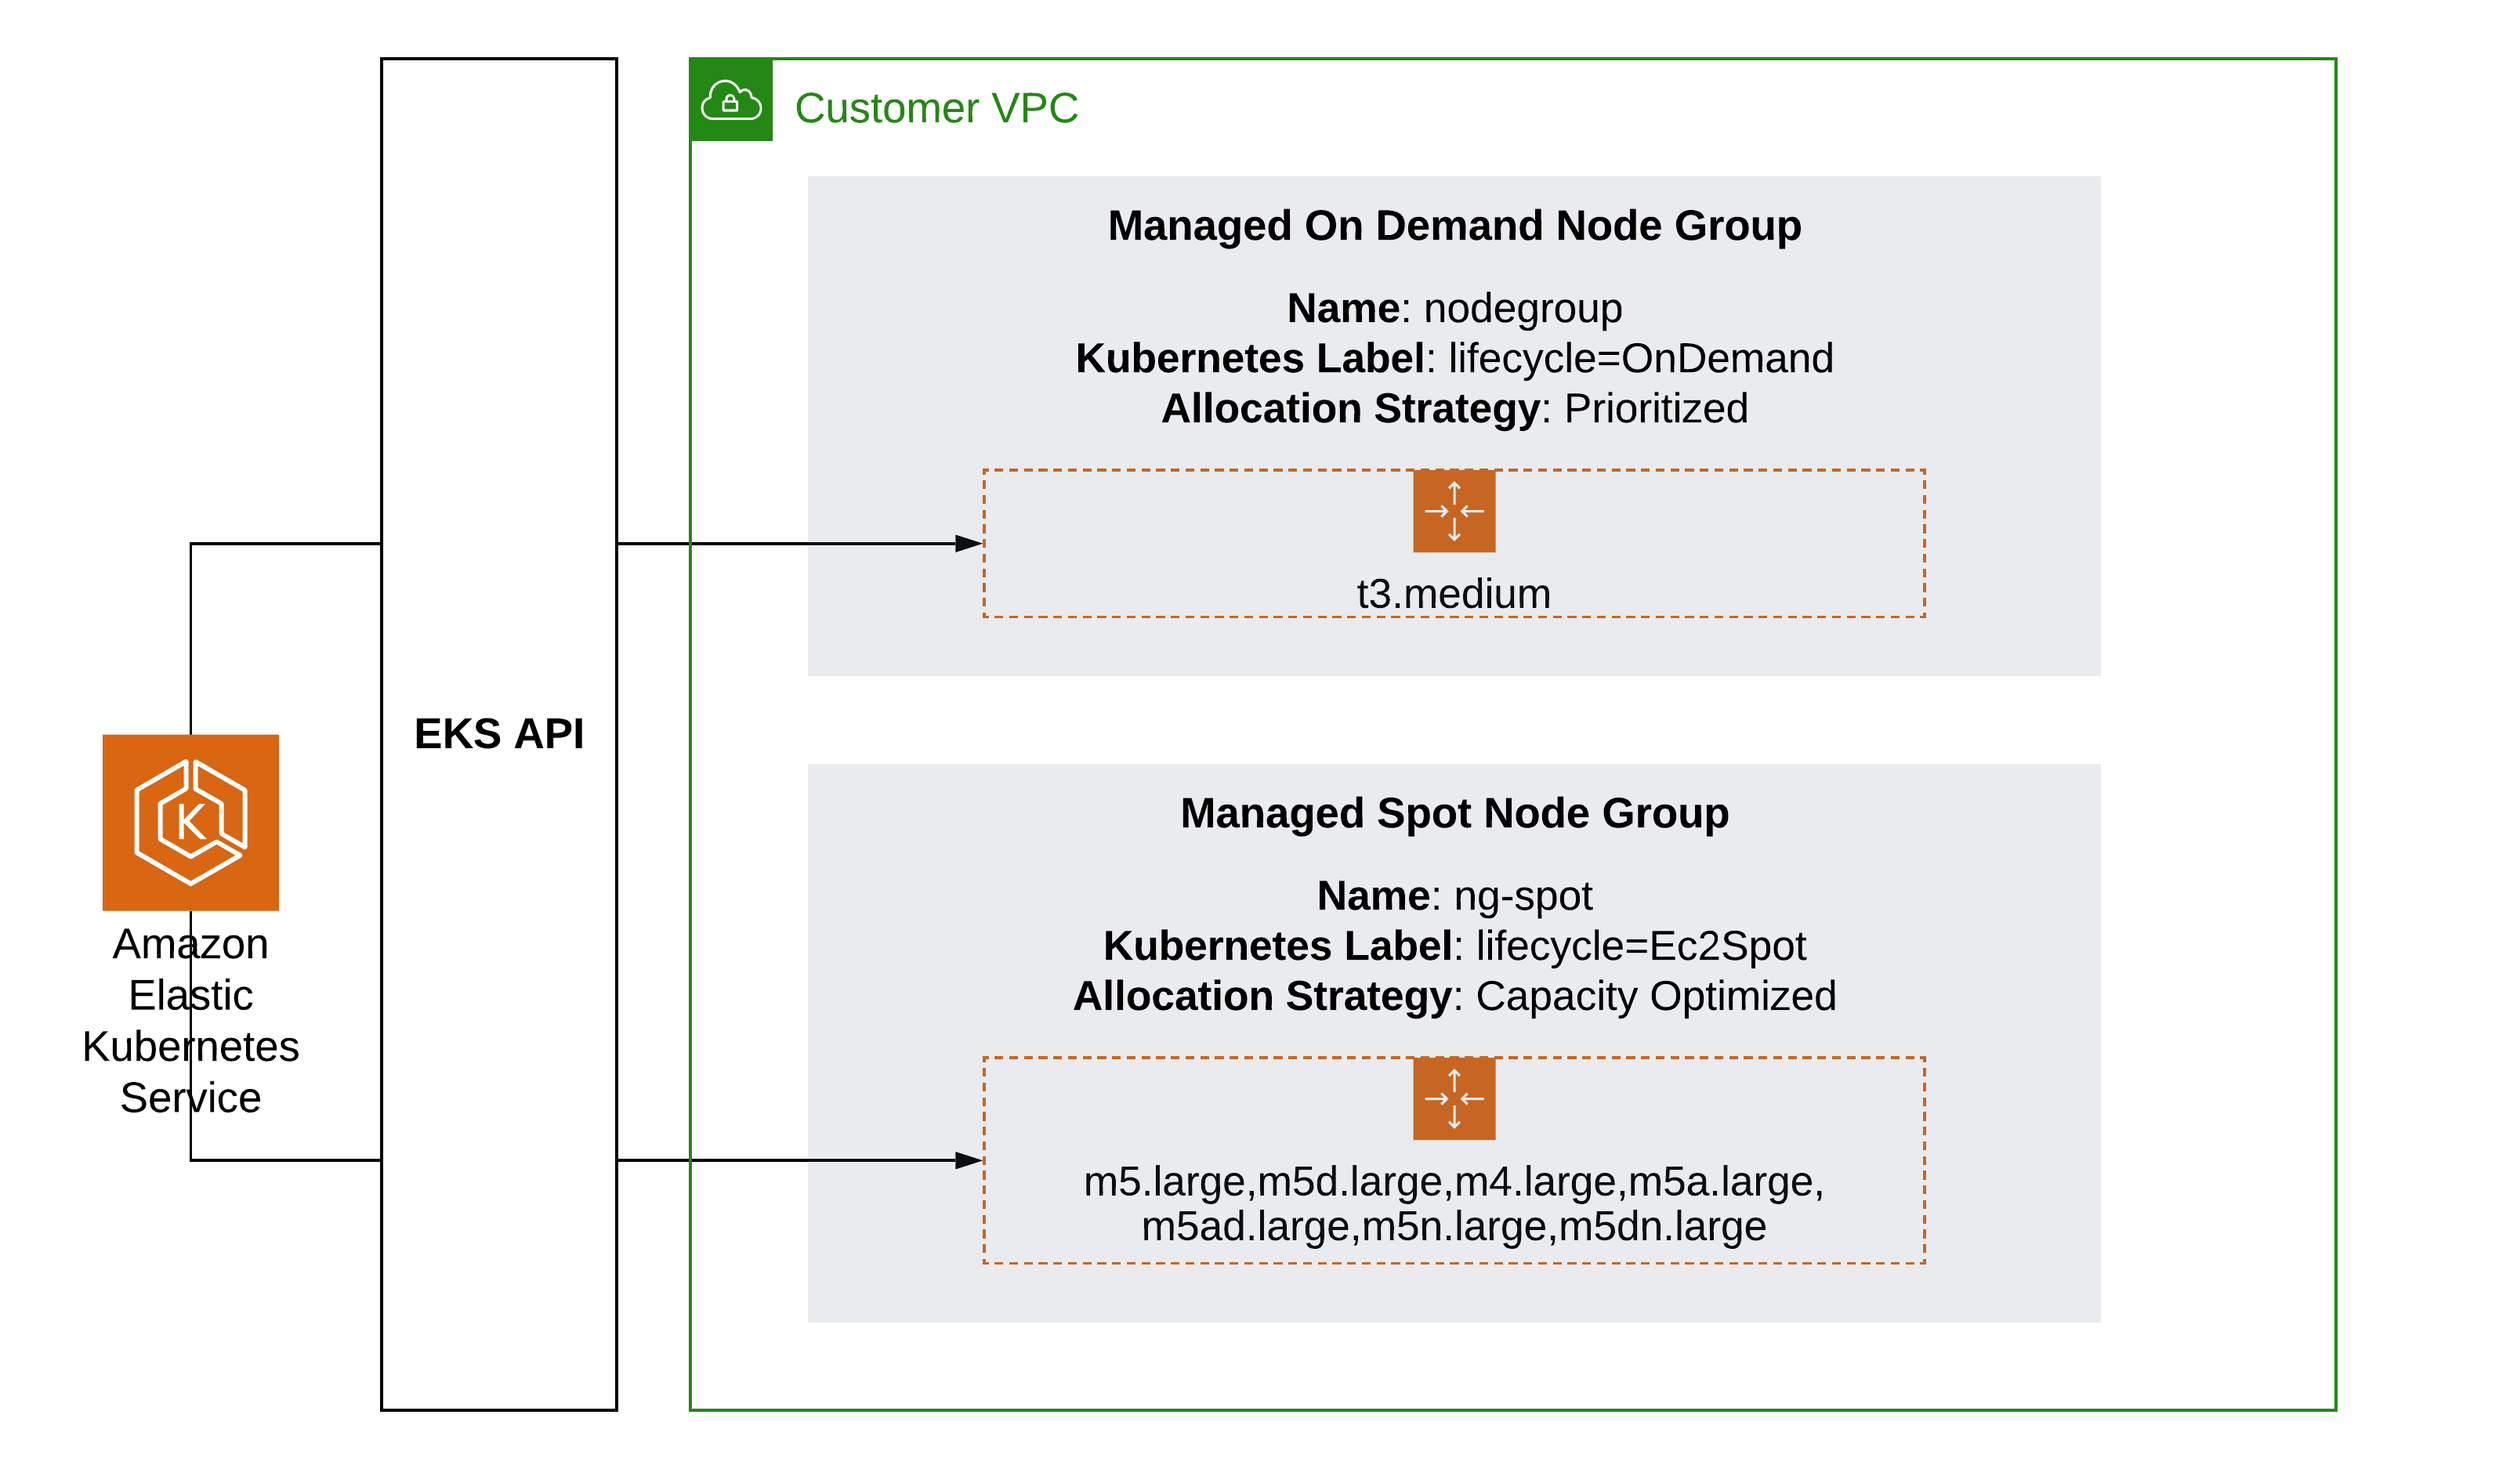
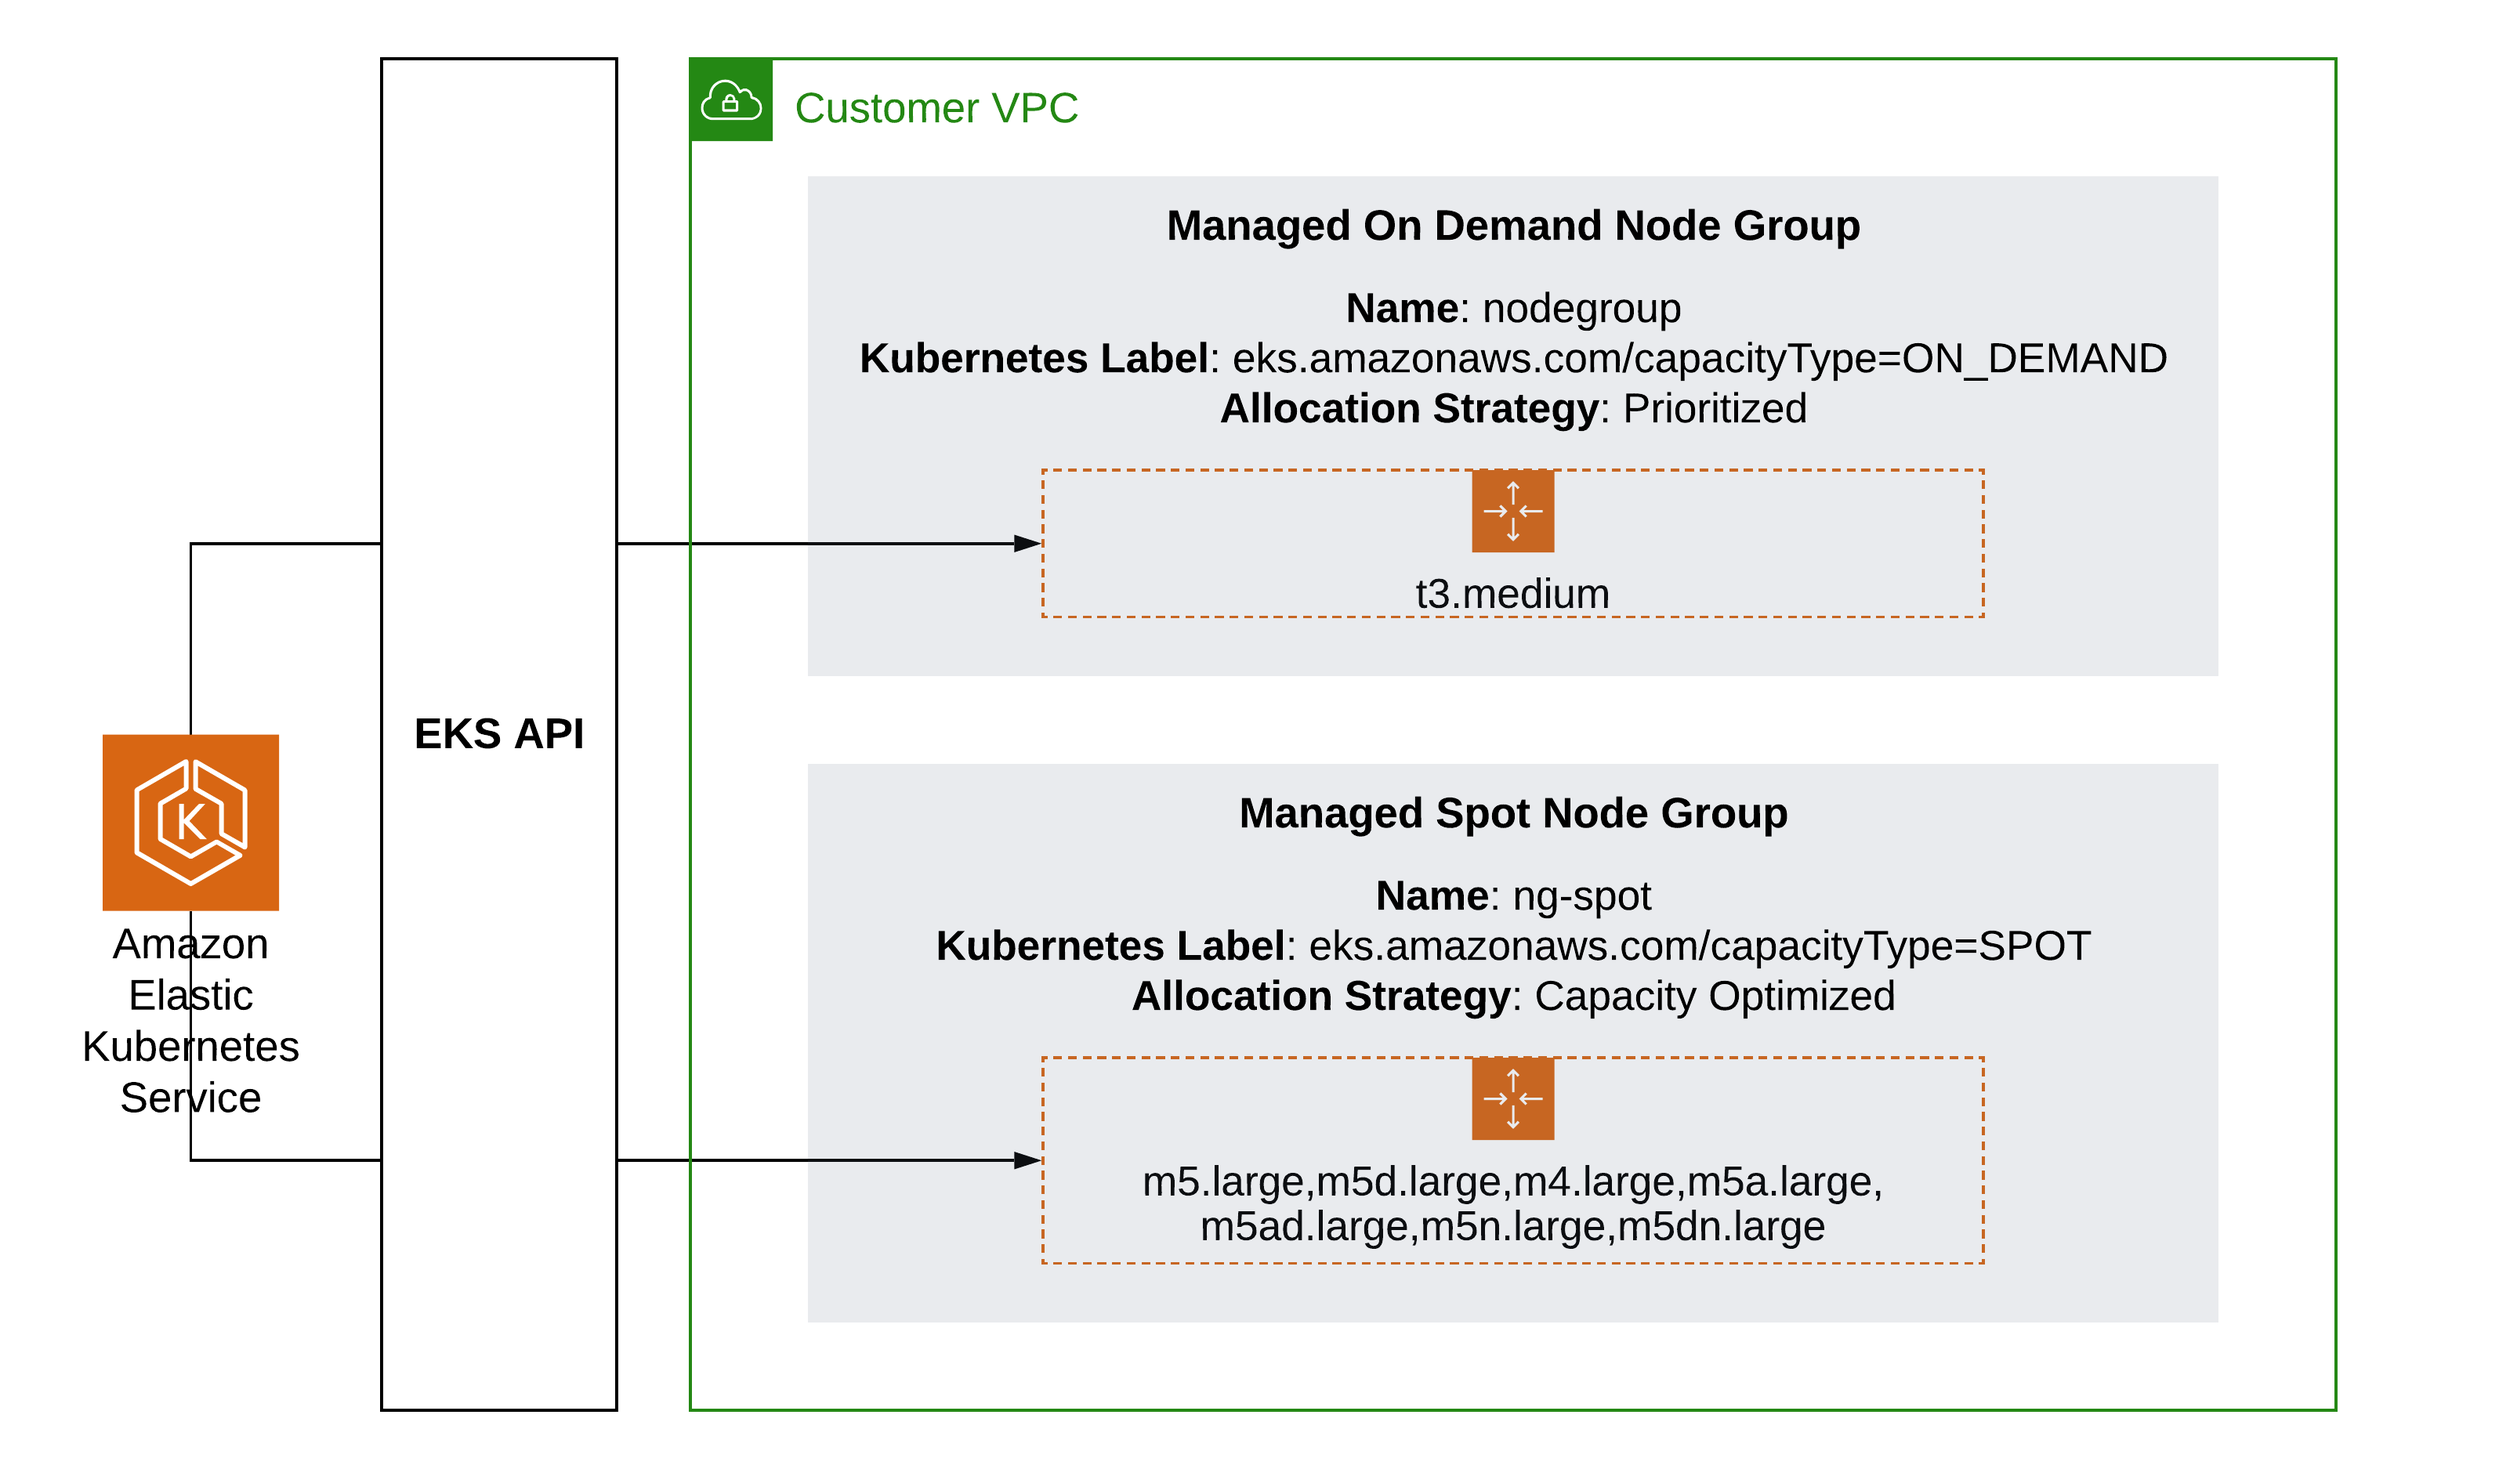
Review 2 updates

Changed region(s): [[0.3725, 0.5259, 0.8382, 0.8661], [0.3415, 0.1237, 0.8692, 0.4331]]

diff --git a/content/beginner/150_spotnodegroups/spotnodegroups.md b/content/beginner/150_spotnodegroups/spotnodegroups.md
@@ -1,12 +1,12 @@
 ---
-title: "Add EC2 Spot Nodes"
+title: "Add Spot managed node group"
 date: 2021-03-08T10:00:00-08:00
 weight: 10
 draft: false
 ---
-We have our EKS cluster and nodes already, but we need some Spot Instances configured to run the workload. We will be creating managed nodegroup to utilize Spot Instances. Managed nodegroups automatically creates a label - eks.amazonaws.com/capacityType - to identify which instances are Spot and which are On-Demand so that we can make more intelligent scheduling decisions. We will use `eksctl` to launch new spot nodes that will connect to the EKS cluster.
+We have our EKS cluster and nodes already, but we need some Spot Instances configured to run the workload. We will be creating a Spot managed node group to utilize Spot Instances. Managed node groups automatically create a label - eks.amazonaws.com/capacityType - to identify which nodes are Spot Instances and which are On-Demand Instances so that we can schedule the appropriate workloads to run on Spot Instances. We will use `eksctl` to launch new nodes running on Spot Instances that will connect to the EKS cluster.
 
-First, we can check that the current nodes are running On-Demand by checking the **eks.amazonaws.com/capacityType** label is set to **ON_DEMAND**.
+First, we can check that the current nodes are running On-Demand by checking the **eks.amazonaws.com/capacityType** label is set to **ON_DEMAND**. The output of the command shows the **CAPACITYTYPE** for the current nodes is set to **ON_DEMAND**.
 
 ```bash
 kubectl get nodes \
@@ -16,9 +16,9 @@ kubectl get nodes \
 
 ![OnDemand Output](/images/spotworkers/spot_get_od.png)
 
-#### Create Spot nodes
+#### Create Spot managed node group
 
-We will not create the Spot nodegroup.
+We will now create the a Spot managed node group using the --spot option in `eksctl create nodegroup` command.
 
 ```bash
 eksctl create nodegroup \
@@ -31,9 +31,9 @@ eksctl create nodegroup \
 Note, the instances above might not be present in your region. To select instances that meet that criteria in your region, you could install [https://github.com/aws/amazon-ec2-instance-selector](https://github.com/aws/amazon-ec2-instance-selector) and execute the command `ec2-instance-selector --base-instance-type m5.large --flexible` to get a diversified selection of instances available in your region of choice that meet the criteria of being similar to m4.large (in vCPU and memory terms)
 {{% /notice %}}
 
-Spot managed nodegroup creates a label **eks.amazonaws.com/capacityType** and sets it to **SPOT** for the nodes.
+Spot managed node group creates a label **eks.amazonaws.com/capacityType** and sets it to **SPOT** for the nodes.
 
-The node groups created follows Spot best practices including using [capacity-optimized](https://aws.amazon.com/blogs/compute/introducing-the-capacity-optimized-allocation-strategy-for-amazon-ec2-spot-instances/) as the spotAllocationStrategy, which will launch instances from the Spot Instance pools with the most available capacity (when EC2 needs the capacity back), aiming to decrease the number of Spot interruptions in our cluster (when EC2 needs the capacity back).
+The Spot managed node group created follows Spot best practices including using [capacity-optimized](https://aws.amazon.com/blogs/compute/introducing-the-capacity-optimized-allocation-strategy-for-amazon-ec2-spot-instances/) as the spotAllocationStrategy, which will launch instances from the Spot Instance pools with the most available capacity (when EC2 needs the capacity back), aiming to decrease the number of Spot interruptions in our cluster.
 
 {{% notice info %}}
 The creation of the nodes will take about 3 minutes.
@@ -48,15 +48,13 @@ kubectl get nodes --sort-by=.metadata.creationTimestamp
 ```
 
 ![All Nodes](/images/spotworkers/spot_get_nodes.png)
-You can use the **eks.amazonaws.com/capacityType** to identify the lifecycle of the nodes.
+You can use the **eks.amazonaws.com/capacityType** to identify the lifecycle of the nodes. The output of this command should return 2 nodes with the **CAPACITYTYPE** set to **SPOT**.
 
 ```bash
 kubectl get nodes \
   --label-columns=eks.amazonaws.com/capacityType \
   --selector=eks.amazonaws.com/capacityType=SPOT
 ```
-
-The output of this command should return 2 nodes. At the end of the node output, you should see the node label **eks.amazonaws.com/capacityType=SPOT**.
 
 ![Spot Output](/images/spotworkers/spot_get_spot.png)
 

diff --git a/content/beginner/150_spotnodegroups/spotlifecycle.md b/content/beginner/150_spotnodegroups/spotlifecycle.md
@@ -5,15 +5,15 @@ weight: 20
 draft: false
 ---
 
-#### View the Spot Nodegroup Configuration
+#### View the Spot Managed Node Group Configuration
 
-Use the AWS Management Console to inspect your deployed Kubernetes cluster. Select **Elastic Kubernetes Service**, click on **Clusters**, and then on **eksworkshop-eksctl** cluster. Select the Configuration tab and Compute sub tab. You can see the nodegroups created one On-Demand nodegroup  and one Spot nodegroups.
+Use the AWS Management Console to inspect the Spot managed node group deployed in your Kubernetes cluster. Select **Elastic Kubernetes Service**, click on **Clusters**, and then on **eksworkshop-eksctl** cluster. Select the **Configuration** tab and **Compute** sub tab. You can see 2 node groups created - one On-Demand node group and one Spot node groups.
 
-Click on **ng-spot** group and you can see the instances types set from the create command.
+Click on **ng-spot** group and you can see the instance types set from the create command.
 
 Click on the Auto Scaling group name in the **Details** tab. Scroll to the Purchase options and instance types settings. Note how Spot best practices are applied out of the box: 
 * **Capacity Optimized** allocation strategy, which will launch Spot Instances from the most-available spare capacity pools. This results in minimizing the Spot Interruptions. 
-* **Capacity Rebalance** halps EKS managed node groups manage the lifecycle of the Spot Instance by proactively replacing instances that are at higher risk of being interrupted. This results in proactively augmenting your fleet with a new Spot Instance before a running instance is interrupted by EC2
+* **Capacity Rebalance** helps EKS managed node groups manage the lifecycle of the Spot Instance by proactively replacing instances that are at higher risk of being interrupted. This results in proactively augmenting your fleet with a new Spot Instance before a running instance is interrupted by EC2
 
 ![Spot Node Groups Configuration](/images/spotworkers/asg_configuration.png)
 
@@ -21,7 +21,9 @@ Click on the Auto Scaling group name in the **Details** tab. Scroll to the Purch
 
 Spot instances are unused EC2 instances that might be reclaimed when OnDemand users require capacity from a specific capacity pool. A Spot capacity pool is a set of unused EC2 instances with the same instance type (for example, m5.large) and Availability Zone. It is possible that your Spot Instance might be interrupted. In this case the Spot Instances are sent an interruption notice two minutes ahead to gracefully wrap up things. EKS Spot Managed node groups re-provision capacity from other available spot pools and redeploy the application elsewhere in the cluster.
 
-Spot Managed node groups automatically deploys the [AWS Node Termination Handler](https://github.com/aws/aws-node-termination-handler) as a Kubernetes Deployment operating in the Queue Processor mode. The aws-node-termination-handler (NTH) running in Queue Processor mode will monitor an SQS queue of events from Amazon EventBridge for ASG lifecycle events, EC2 status change events, and Spot Interruption Termination Notice events. When NTH detects an instance is going down, we use the Kubernetes API to cordon the node to ensure no new work is scheduled there, then drain it, removing any existing work. 
+**TO BE CORRECTED**
+Spot managed node groups automatically deploys the [AWS Node Termination Handler](https://github.com/aws/aws-node-termination-handler) as a Kubernetes Deployment operating in the Queue Processor mode. The aws-node-termination-handler (NTH) running in Queue Processor mode will monitor an SQS queue of events from Amazon EventBridge for ASG lifecycle events, EC2 status change events, and Spot Interruption Termination Notice events. When NTH detects an instance is going down, we use the Kubernetes API to cordon the node to ensure no new work is scheduled there, then drain it, removing any existing work.
+**TO BE CORRECTED**
 
 The workflow for the NTH can be summarized as:
 

diff --git a/content/beginner/150_spotnodegroups/deployapp.md b/content/beginner/150_spotnodegroups/deployapp.md
@@ -5,7 +5,7 @@ weight: 30
 draft: false
 ---
 
-We are redesigning our Microservice example and want our frontend service to be deployed on Spot Instances when they are available. We will ensure that the NodeJS and crystall backend services are deployed on On-Demand Instances. We will use Node Affinity in our manifest file to configure this.
+We are redesigning our Microservice example and want our frontend service to be deployed on Spot Instances when they are available. We will ensure that the NodeJS and crystal backend services are deployed on On-Demand Instances. We will use Node Affinity in our manifest file to configure this.
 
 #### Configure Node Affinity for the services
 
@@ -24,7 +24,8 @@ For examples of Node Affinity, check this [**link**](https://kubernetes.io/docs/
 **Configure Affinity**
 
 {{% expand "Expand here to see the solution"%}}
-Add this to your deployment file for the frontend service under spec.template.spec
+
+1. Add this to your deployment file for the frontend service under spec.template.spec
 
 ```yaml
       affinity:
@@ -39,7 +40,7 @@ Add this to your deployment file for the frontend service under spec.template.sp
                 - SPOT
 ```
 
-Add this to your deployment file for the backend services under spec.template.spec
+2. Add this to your deployment file for the backend services under spec.template.spec
 
 ```yaml
       affinity:

diff --git a/content/beginner/150_spotnodegroups/_index.md b/content/beginner/150_spotnodegroups/_index.md
@@ -14,6 +14,6 @@ tags:
 
 {{< youtube 9A2Zyxy2Nsk >}}
 
-In this module, you will learn how to provision, manage, and maintain your Kubernetes clusters with Amazon EKS on EC2 Spot instances in managed node groups to optimize cost and scale. [Click here](https://aws.amazon.com/blogs/containers/amazon-eks-now-supports-provisioning-and-managing-ec2-spot-instances-in-managed-node-groups/) for a deep-dive blog post on Kubernetes and EC2 Spot Instances in managed node groups.
+In this module, you will learn how to provision, manage, and maintain your Kubernetes clusters with Amazon EKS on EC2 Spot instances using Spot managed node groups to optimize cost and scale. [Click here](https://aws.amazon.com/blogs/containers/amazon-eks-now-supports-provisioning-and-managing-ec2-spot-instances-in-managed-node-groups/) for a deep-dive blog post on Kubernetes and EC2 Spot Instances in managed node groups.
 
 ![Spot Node Groups Architecture](/images/spotworkers/spot_nodegroup_arch.png)
